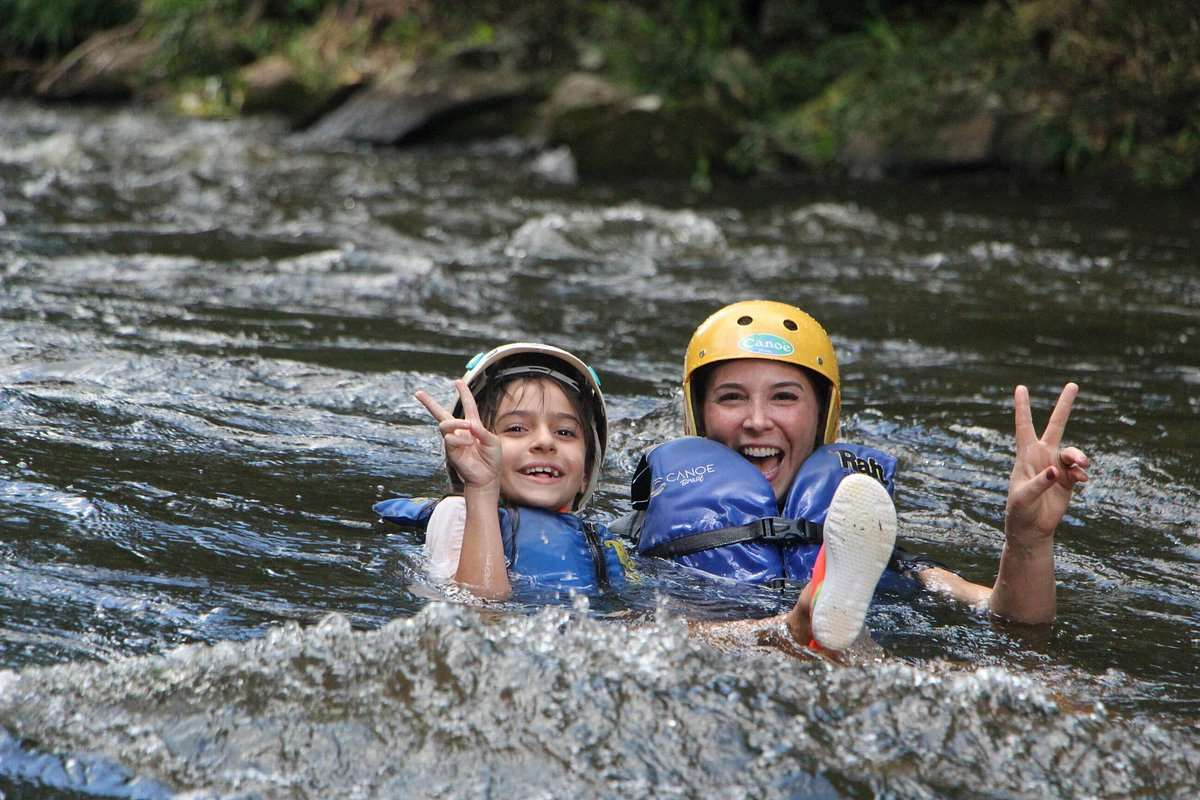
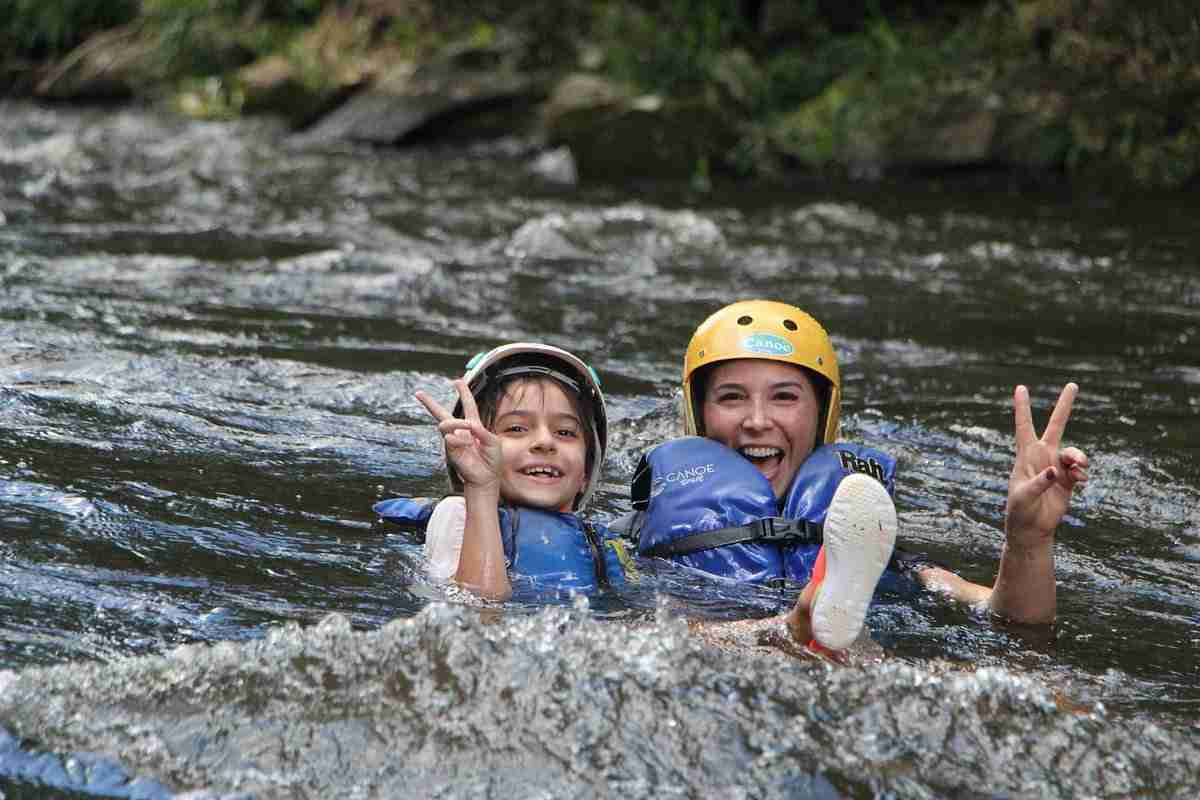
Update About Us Page

diff --git a/wwr/about.html b/wwr/about.html
@@ -13,6 +13,7 @@
 <body>
     <header>
         <img src="images/profilerafting.png" alt="Gray River Rafting logo">
+
         <nav>
             <a href="index.html">Home</a>
             <a href="about.html">About Us</a>
@@ -24,10 +25,12 @@
     <main>
         <div class="hero">
             <img src="images/rafting.jpg" alt="People enjoying a rafting adventure on a river">
+
             <h1>Gray River Rafting</h1>
 
             <article>
                 <img src="images/happy-client.jpg" alt="Happy rafting client">
+
                 <p>
                     At Gray River Rafting, our goal is to provide exciting
                     and safe adventures for everyone. We love helping people
@@ -36,18 +39,57 @@
             </article>
         </div>
 
-        <section>
+        <section class="history">
             <h2>History</h2>
+
             <p>
                 Gray River Rafting started with a small group of friends
                 who loved exploring rivers and spending time outdoors.
                 Today, we are happy to share this passion with people
                 who want to experience the excitement of rafting.
             </p>
+
+            <img src="images/happy-client.jpg" alt="A happy customer enjoying a rafting adventure">
+
+            <p>
+                Over the years, our company has welcomed people of all
+                experience levels. Our team works hard to provide safe,
+                exciting, and memorable experiences for every visitor.
+                We believe that every river adventure creates a special memory.
+            </p>
         </section>
 
-        <section>
+        <section class="adventures">
             <h2>Adventure Awaits You!</h2>
+
+            <div class="adventure-gallery">
+
+                <figure>
+                    <img src="images/adventure1.jpg" alt="People rafting through river rapids">
+                    <figcaption>Brotas Classic</figcaption>
+                </figure>
+
+                <figure>
+                    <img src="images/adventure2.jpg" alt="Rafting boat navigating a big river">
+                    <figcaption>Jalapão Expeditiond</figcaption>
+                </figure>
+
+                <figure>
+                    <img src="images/adventure3.jpg" alt="Exciting rafting adventure through strong rapids">
+                    <figcaption>Iguaçu Extreme</figcaption>
+                </figure>
+
+                <figure>
+                    <img src="images/adventure4.jpg" alt="Group enjoying a rafting adventure">
+                    <figcaption>Pantanal Adventure</figcaption>
+                </figure>
+
+                <figure>
+                    <img src="images/adventure5.jpg" alt="People paddling together on a river">
+                    <figcaption>Paraibuna Challenge</figcaption>
+                </figure>
+
+            </div>
         </section>
     </main>
 
@@ -58,9 +100,11 @@
             <a href="https://facebook.com">
                 <img src="images/facebook.png" alt="Facebook">
             </a>
+
             <a href="https://linkedin.com">
                 <img src="images/linkedin.png.jpg" alt="LinkedIn">
             </a>
+
             <a href="https://instagram.com">
                 <img src="images/instagram.png" alt="Instagram">
             </a>

diff --git a/wwr/styles/rafting.css b/wwr/styles/rafting.css
@@ -28,9 +28,9 @@ footer {
 }
 
 header {
-    display: flex;
+    display: grid;
+    grid-template-columns: 1fr 2fr;
     align-items: center;
-    justify-content: space-around;
     padding: 15px;
     background-color: var(--secondary-color);
 }
@@ -40,11 +40,16 @@ header img {
     height: auto;
 }
 
+header nav {
+    display: flex;
+    justify-content: space-around;
+    align-items: center;
+}
+
 nav a {
     color: var(--primary-color);
     text-decoration: none;
-    margin: 12px;
-    padding: 8px;
+    padding: 10px;
 }
 
 nav a:hover {
@@ -55,13 +60,6 @@ h1,
 h2 {
     font-family: var(--heading-font);
     color: var(--primary-color);
-}
-
-p,
-section,
-article {
-    margin: 16px;
-    padding: 8px;
 }
 
 .hero {
@@ -99,13 +97,65 @@ article {
     margin-left: 12px;
 }
 
-section {
-    text-align: center;
-    padding: 20px;
+.hero article p {
+    line-height: 1.5;
 }
 
-section h2 {
-    margin-bottom: 12px;
+.history {
+    display: grid;
+    grid-template-columns: 1fr 1fr 1fr;
+    gap: 20px;
+    align-items: center;
+    padding: 20px;
+    margin: 16px;
+    background-color: var(--secondary-color);
+}
+
+.history h2 {
+    grid-column: 1 / 4;
+    text-align: center;
+}
+
+.history img {
+    width: 100%;
+    height: auto;
+}
+
+.history p {
+    line-height: 1.5;
+}
+
+.adventures {
+    margin: 16px;
+    padding: 20px;
+    background-color: var(--secondary-color);
+}
+
+.adventures h2 {
+    text-align: center;
+    margin-bottom: 20px;
+}
+
+.adventure-gallery {
+    display: grid;
+    grid-template-columns: repeat(5, 1fr);
+    gap: 12px;
+    text-align: center;
+}
+
+.adventure-gallery figure {
+    margin: 0;
+}
+
+.adventure-gallery img {
+    width: 100%;
+    height: 110px;
+    object-fit: cover;
+}
+
+.adventure-gallery figcaption {
+    margin-top: 8px;
+    font-size: 14px;
 }
 
 footer {
@@ -123,6 +173,7 @@ footer p {
 .socialmedia {
     display: flex;
     align-items: center;
+    gap: 12px;
 }
 
 .socialmedia a {
@@ -132,4 +183,34 @@ footer p {
 .socialmedia img {
     width: 30px;
     height: 30px;
+}
+
+@media screen and (max-width: 600px) {
+    header {
+        grid-template-columns: 1fr;
+        justify-items: center;
+        gap: 15px;
+    }
+
+    header nav {
+        flex-wrap: wrap;
+    }
+
+    .history {
+        grid-template-columns: 1fr;
+    }
+
+    .history h2 {
+        grid-column: 1;
+    }
+
+    .adventure-gallery {
+        grid-template-columns: repeat(2, 1fr);
+    }
+
+    footer {
+        flex-direction: column;
+        gap: 15px;
+        text-align: center;
+    }
 }
